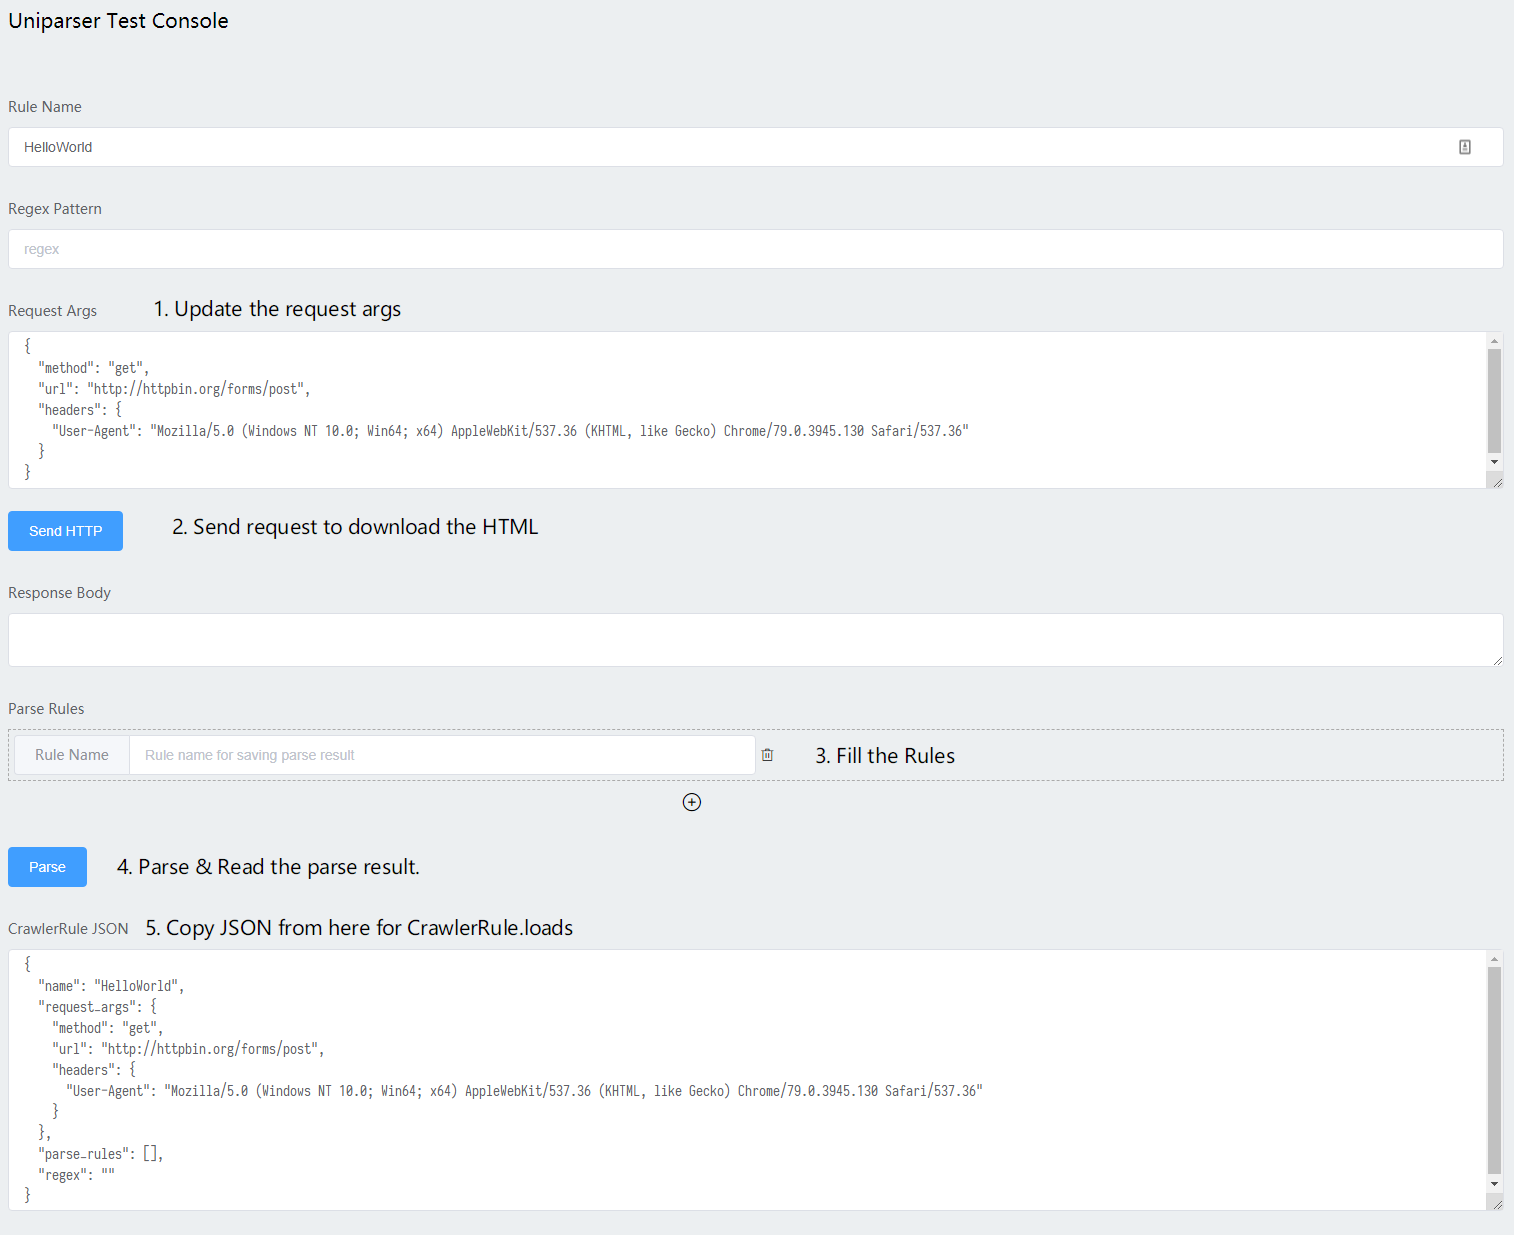
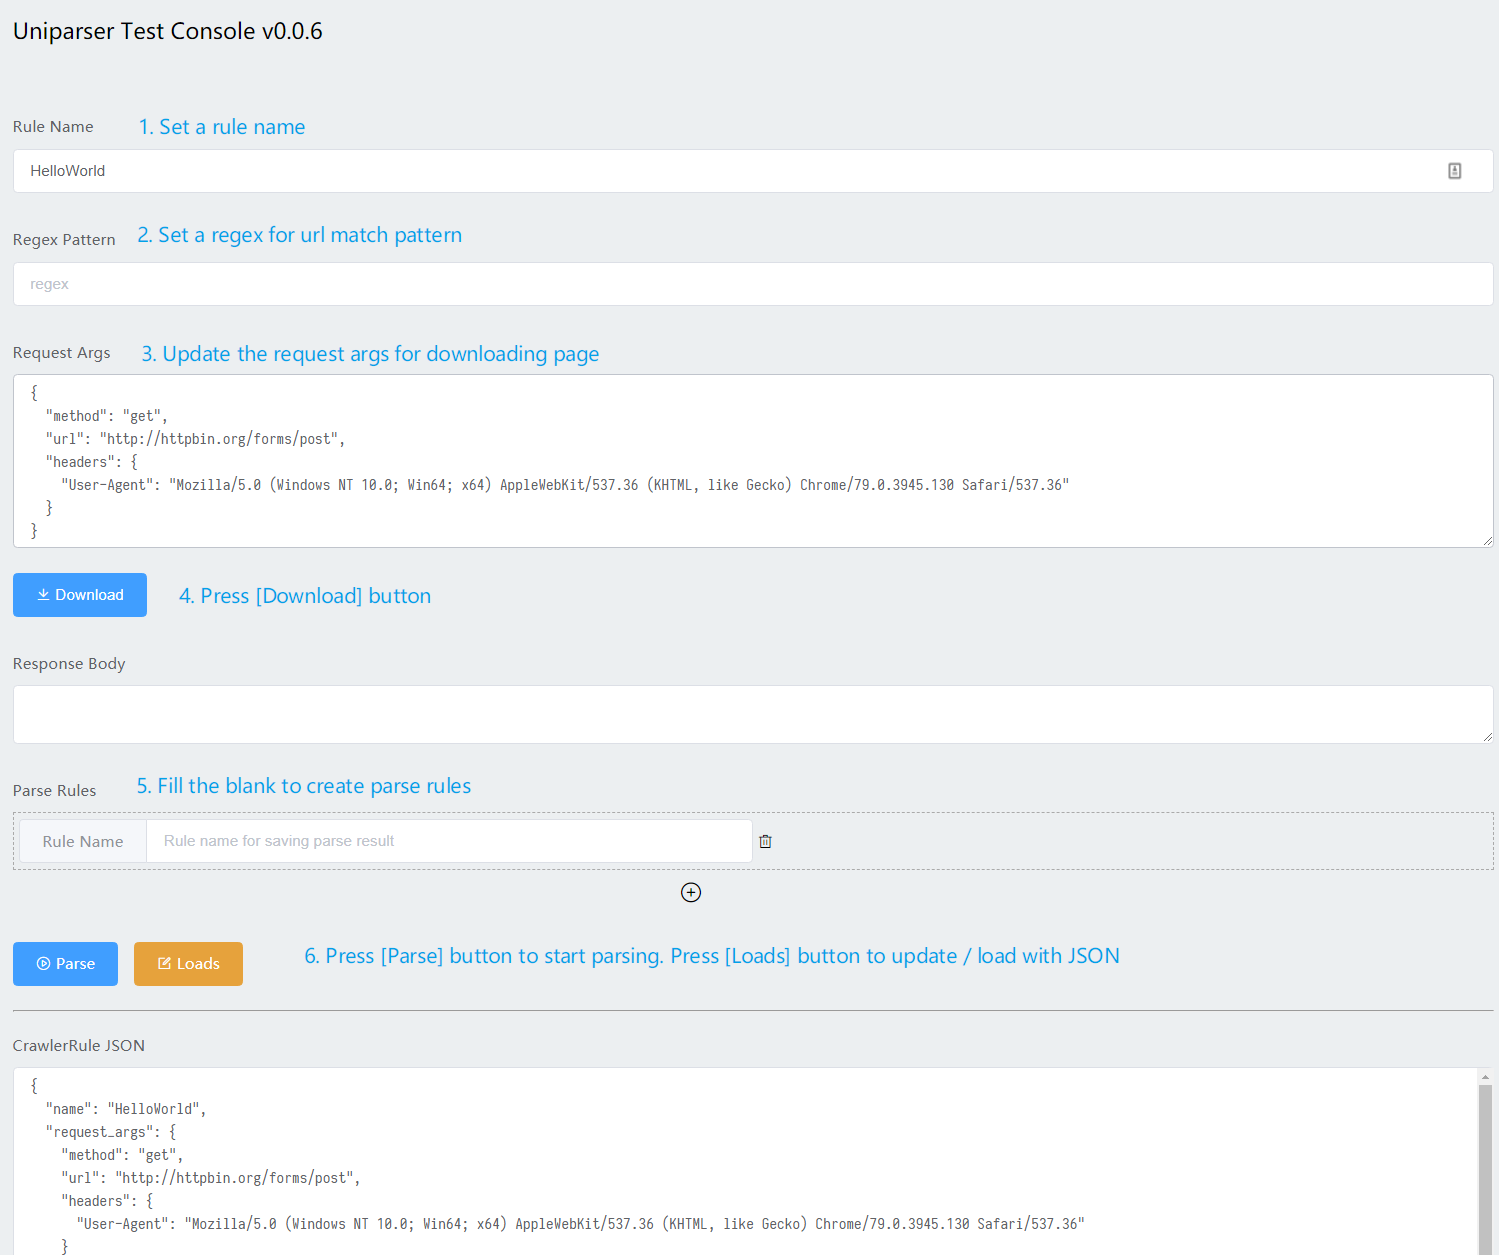
update readme

diff --git a/uniparser/templates/index.html b/uniparser/templates/index.html
@@ -27,6 +27,10 @@
             font-size: 0.9em;
         }
 
+        #el-drawer__title>span:focus {
+            outline-color: white;
+        }
+
         a:link {
             color: #000000;
             text-decoration: none;
@@ -75,7 +79,7 @@
                         <el-button type="primary" @click="download"> <i class="el-icon-download"></i> Download
                         </el-button>
                     </el-form-item>
-                    <el-form-item label="Response Body">
+                    <el-form-item :label="'Response Body ' + request_status " id="request_status">
                         <el-input type="textarea" :autosize="{ minRows: 2, maxRows: 5}" placeholder="" width="50%"
                             v-model="input_object">
                         </el-input>
@@ -186,6 +190,7 @@
                         }, null, 2),
                     },
                     input_object: '',
+                    request_status: '',
                     parse_result: '',
                     current_doc: '',
                     doc_drawer: false,
@@ -216,7 +221,10 @@
                     var data = this.crawler_rule.request_args
                     this.$http.post('/request', data).then(
                         r => {
-                            this.input_object = r.bodyText
+                            this.input_object = r.body.text
+                            this.request_status = r.body.status
+                            let color = r.body.ok ? 'green' : 'red'
+                            document.querySelector('#request_status>label').style.color = color
                         }, r => {
                             this.status = 'testTask failed, Bad request (' + r.status + ') :' + r
                                 .statusText

diff --git a/uniparser/webui.py b/uniparser/webui.py
@@ -52,9 +52,13 @@ def send_request():
         GLOBAL_RESP = r
         if encoding:
             r.encoding = encoding
-        return r.text
+        return {
+            'text': r.text,
+            'status': f'[{r.status_code}]',
+            'ok': r.status_code in range(200, 300)
+        }
     except requests.RequestException as e:
-        return str(e)
+        return {'text': str(e), 'status': '[-1]', 'ok': False}
 
 
 @app.post("/parse")

diff --git a/README.md b/README.md
@@ -165,7 +165,7 @@ if __name__ == "__main__":
 
 ### 2. open browser  http://127.0.0.1:8080/ 
 
-#### 2.1 Web UI start page
+#### 2.1 Start page
 
 ![1.png](1.png)
 
@@ -175,7 +175,11 @@ if __name__ == "__main__":
 
 #### 2.3 Read the parse result
 
-![3.png](3.png)
+Show result as repr(result)
+
+> {'HelloWorld': {'rule1-get-first-p': 'Customer name: ', 'rule2-get-legends': [' Pizza Size ', ' Pizza Toppings ']}}
+
+As you see, Crawler Rule's name is the root key, and ParseRule's name as the others.
 
 ## More Usage
 
